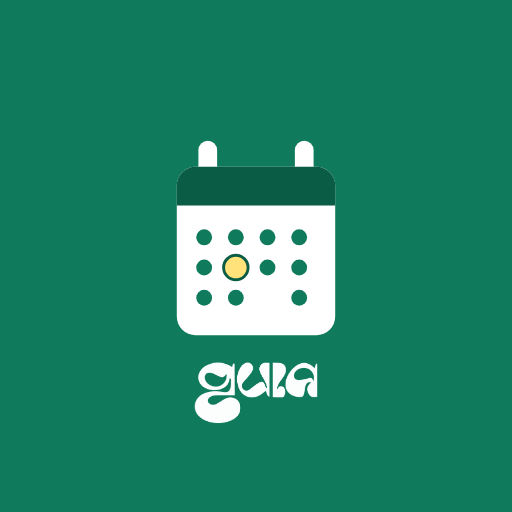
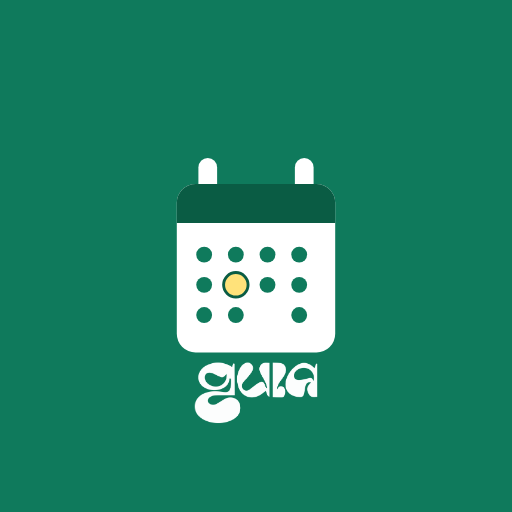
Igualar la distancia entre el pictograma y "gula" en los tres iconos
El dueño mandó una captura de los tres accesos directos instalados: el
hueco entre el dibujo y el logotipo "gula" no era el mismo en los tres.
Medido en la rejilla del SVG fuente (el logotipo está fijo en y=404 en
los tres): 14px en checklist, 38px en calendario, solo 6px en
formulario — cada pictograma se dibujó a su propio tamaño sin mirar
dónde caía el logotipo debajo.

Arreglado envolviendo cada pictograma en su propio
translate(0, dy) (calendario +24, formulario -8, checklist sin
cambio) para que los tres terminen con el mismo hueco de 14px antes
del logotipo. Mismo ajuste en las variantes maskable, que comparten
las mismas coordenadas bajo su propio scale(0.72). Los PNG se
regeneraron con Playwright a partir de los SVG corregidos, mismo
proceso que la primera vez.

VERSION en sw.js sube otra vez (gula-v6 -> gula-v7): son los mismos
ficheros sin hash de siempre, así que sin este bump el navegador
seguiría sirviendo los iconos viejos desde caché.

Claude-Session: https://claude.ai/code/session_01J6ynDRBmZXmhH6TLkFFyes

Changed region(s): [[0.3438, 0.2812, 0.6562, 0.6875]]

diff --git a/public/sw.js b/public/sw.js
@@ -65,7 +65,7 @@ self.addEventListener("notificationclick", (e) => {
 // número, y quien ya tenía la app instalada (o solo visitada una vez) se quedó viendo
 // el icono antiguo por mucho que borrara el acceso directo y lo reinstalara, porque el
 // acceso directo no toca la caché del origen — solo se limpia bajando este número.
-const VERSION = "gula-v6";
+const VERSION = "gula-v7";
 const CACHE = `${VERSION}`;
 
 // Lo que hay que guardar sí o sí para poder abrir sin cobertura. Los .js y .css llevan

diff --git a/CONTEXTO.md b/CONTEXTO.md
@@ -2464,6 +2464,19 @@ Comentario añadido en el propio `sw.js`, junto a `VERSION`, para que la próxim
 se cambie el CONTENIDO de un fichero sin hash (icono, manifest, favicon) no se repita:
 hay que subir este número aunque `sw.js` en sí no tenga nada que ver con ese cambio.
 
+## El logotipo "gula" quedaba a distinta distancia del dibujo en cada icono
+
+El dueño mandó una captura de los tres accesos directos instalados: el hueco entre el
+pictograma y el logotipo "gula" no era el mismo en los tres — 14px en checklist, 38px en
+calendario, solo 6px en formulario (medido en la rejilla de 512×512 de cada SVG fuente),
+porque cada pictograma se dibujó a su propio tamaño sin mirar dónde caía el logotipo, que
+está fijo en `y=404` en los tres. Arreglado envolviendo cada pictogram en un
+`<g transform="translate(0 …)">` (calendario +24, formulario −8, checklist sin cambio) para
+que los tres terminen con el mismo hueco de 14px antes del logotipo — mismo criterio en
+las variantes maskable, que comparten las mismas coordenadas bajo su propio `scale(0.72)`.
+`VERSION` en `sw.js` sube otra vez (`gula-v6` → `gula-v7`): son los mismos ficheros sin
+hash de siempre (ver la sección de arriba).
+
 ## Cómo probar lo que está tras el login
 
 `pruebas/calendario.html` monta los mismos componentes con datos inventados, sin nube:
